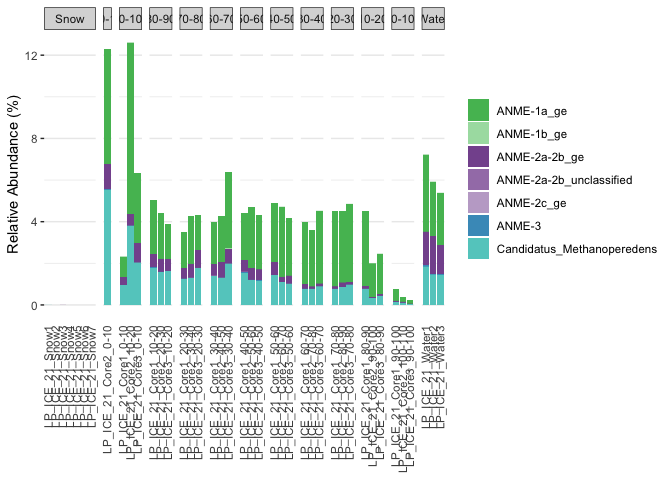
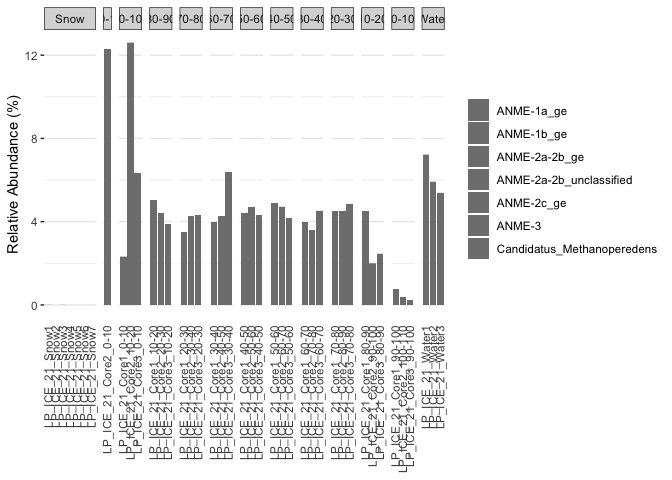
Bug fix internal functions

Changed region(s): [[0.1562, 0.0938, 0.75, 0.6562]]

diff --git a/Documents/BriefReport_Reproducible_code.md b/Documents/BriefReport_Reproducible_code.md
@@ -99,6 +99,7 @@ require(pairwiseAdonis) # https://github.com/pmartinezarbizu/pairwiseAdonis
 require(dunn.test) 
 require(pgirmess)
 require(multcompView)
+require(rlang)
 ```
 
 ## 0.2-Internal functions
@@ -317,8 +318,9 @@ plotAbundance <- function(physeq,x = Sample,
   colorPalette <- taxonomyCol %>% 
     rownames_to_column(var = "Taxa") %>% 
     filter(Taxa %in% (df.topN %>% pull({{rank}}))) %>% 
-    arrange(Taxa) %>% 
-    pull(Color)
+    column_to_rownames(var = "Taxa")
+  selectTaxa <- levels(df.topN[[as_string(ensym(rank))]])[-grep("Bacteria_unclassified",levels(df.topN[[as_string(ensym(rank))]]))]
+  colorPalette <- colorPalette[selectTaxa,] # ggplot will order colors by factor levels, therefore we need the color vector to be ordered by levels of the aesthetic that will be plotted (rank)
   }
   
   plot.abund <- ggplot(data = df,
@@ -2294,7 +2296,7 @@ dummy_dna <- data.frame(SampleName = c("LP_ICE_21_Core1_100-110blank","LP_ICE_21
            aes(x = SampleName2, y = Abundance, fill = Genus)) +
     geom_bar(stat="identity",
              width = 1, linewidth = 0) + 
-    labs(fill = element_blank(), y = "Relative Abundance (%)") +
+    labs(fill = element_blank(), y = "Relative abundance (%)") +
     scale_fill_manual(values = c(df.dna$colorPalette[1:df.dna$nlevels],"#a0a0a0")) +
     theme_bw() + 
     theme(axis.text.x = element_text(angle = 90, hjust=1, vjust=0.5)) +
@@ -2366,7 +2368,7 @@ dummy_cdna <- data.frame(SampleName = c("LP_ICE_21_Snow7","LP_ICE_21_Core1_100-1
        aes(x = SampleName2, y = Abundance, fill = Genus)) +
   geom_bar(stat="identity",
            width = 1, linewidth = 0) +
-  labs(fill = element_blank(), y = "Relative Abundance (%)") +
+  labs(fill = element_blank(), y = "Relative abundance (%)") +
   scale_fill_manual(values = c(df.cdna$colorPalette[1:df.cdna$nlevels],"#a0a0a0")) +
   theme_bw() +
   theme(axis.text.x = element_text(angle = 90, hjust=1, vjust=0.5),
